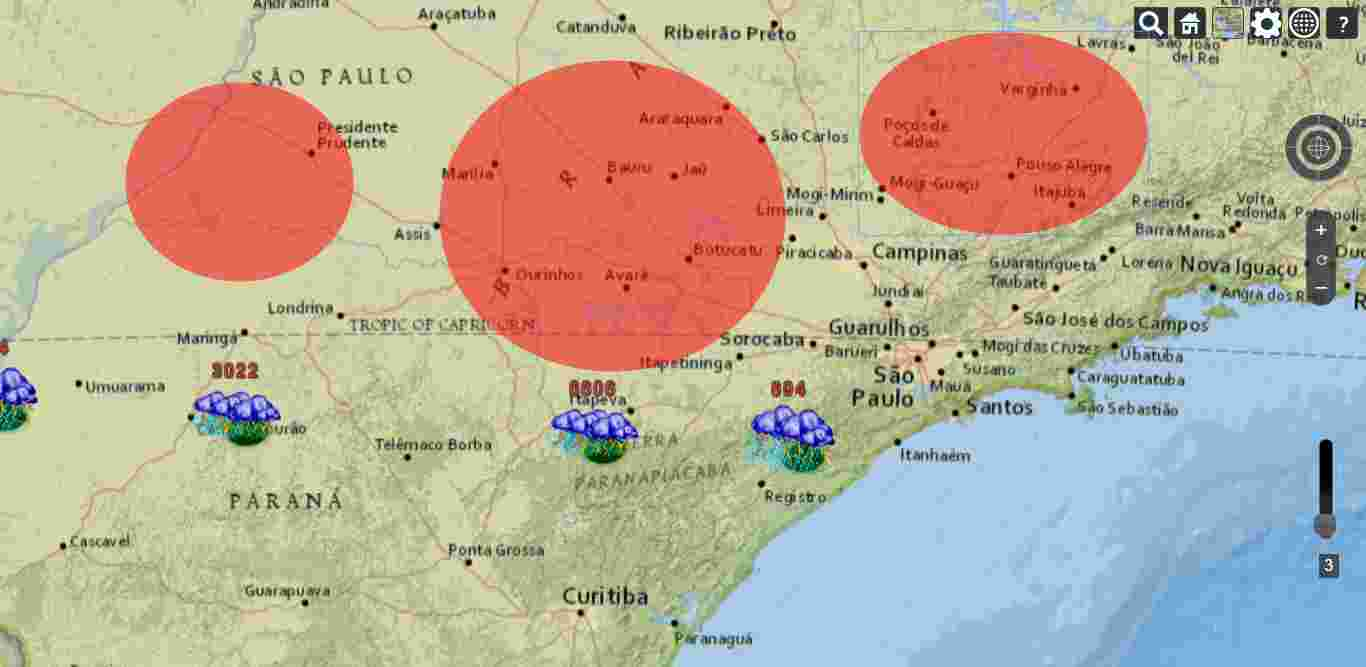
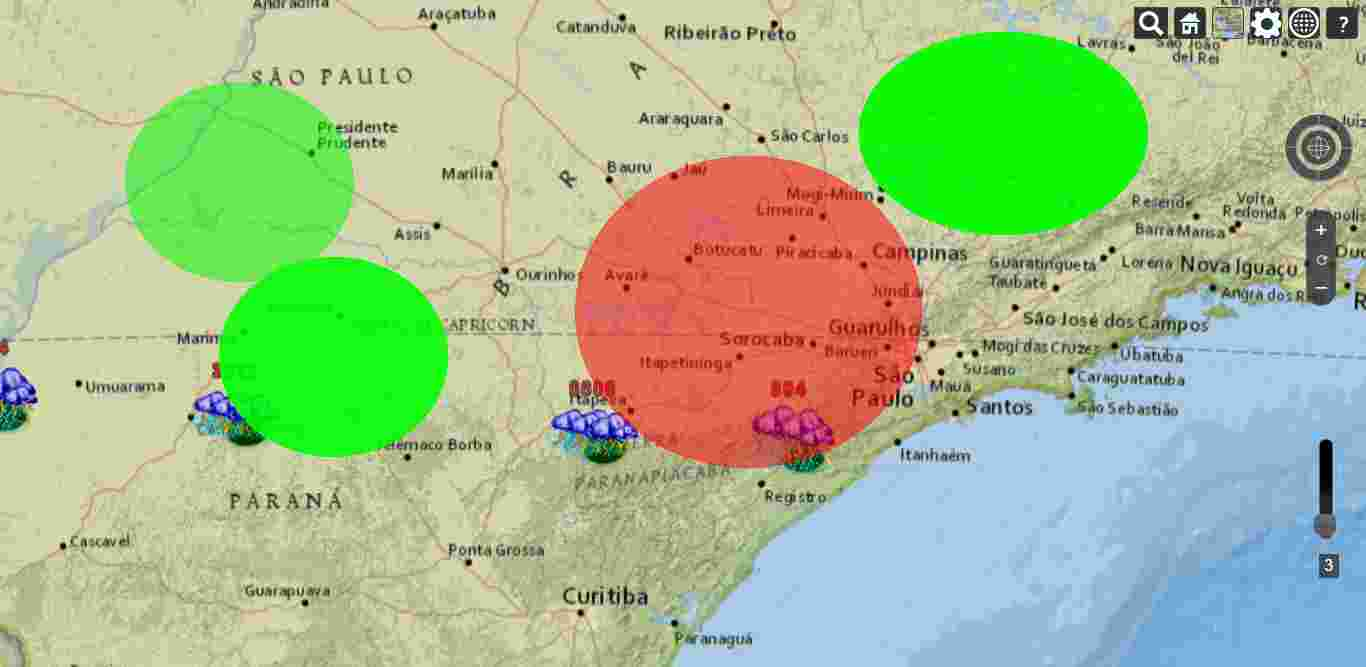
sincronização da ordem dos objetos

Changed region(s): [[0.0615, 0.03, 0.8609, 0.7196], [0.8302, 0.3298, 0.8609, 0.3598]]

diff --git a/ProjetoColaborativo/Controllers/VimapsController.cs b/ProjetoColaborativo/Controllers/VimapsController.cs
@@ -232,9 +232,9 @@ namespace ProjetoColaborativo.Controllers
             List<ElementoMultimidia> elementosdosoutros =
                 obj.ElementosMultimidia.Where(x => x.Usuario != usuario).ToList();
 
+            List<string> els = new List<string>();
             if (elementosdosoutros.Count > 0)
             {
-                List<string> els = new List<string>();
                 foreach (var el in elementosdosoutros)
                 {
                     Color cor = System.Drawing.ColorTranslator.FromHtml("#" + el.Usuario.Cor);
@@ -244,12 +244,14 @@ namespace ProjetoColaborativo.Controllers
                     {
                         json = Regex.Replace(json, "(?<=fill\":\").*?(?=\")", "rgba(255, 255, 255, 1)");
                         json = Regex.Replace(json, "(?<=stroke\":\").*?(?=\")", "rgba(0, 0, 0, 1)");
+                        json = Regex.Replace(json, "(?<=iddono\":\").*?(?=\")", el.Usuario.Id);
                         json = Regex.Replace(json, "(?<=textBackgroundColor\":\").*?(?=\")",
                             string.Format("rgba({0}, {1}, {2}, 0.5)", cor.R, cor.G, cor.B));
                         //json = json.Replace("\\n", "\n");
                     }
                     else // GEOMETRIA
                     {
+                        json = Regex.Replace(json, "(?<=iddono\":\").*?(?=\")", el.Usuario.Id);
                         json = Regex.Replace(json, "(?<=fill\":\").*?(?=\")",
                             string.Format("rgba({0}, {1}, {2}, 0.5)", cor.R, cor.G, cor.B));
                         json = Regex.Replace(json, "(?<=stroke\":\").*?(?=\")",
@@ -258,12 +260,24 @@ namespace ProjetoColaborativo.Controllers
 
                     els.Add(json);
                 }
-                return this.Content(string.Format("{{\"objects\": [ {0} ]}}", string.Join(",", els)), "application/json");
             }
 
-            return Json("", JsonRequestBehavior.AllowGet);
-        }
+            // orders
+            var objs = sessao.ObjetosDaSessao.OrderBy(x => x.Ordem).ToList();
 
+            if (objs.Count == 0)
+                return Json("", JsonRequestBehavior.AllowGet);
+
+            List<string> orders = new List<string>();
+            foreach (var o in objs)
+                orders.Add(string.Format("{{ \"id\":\"{0}\", \"order\":\"{1}\" }}", o.Handle, o.Ordem));
+
+            return this.Content(string.Format("{{\"multimediaelements\": [ {0} ], \"objects\": [ {1} ]}}",
+                string.Join(",", els),
+                string.Join(",", orders)),
+                "application/json");
+        }
+        
         [Authorize]
         public ActionResult MostrarSessao(long? id, long? objetoid)
         {
@@ -292,23 +306,26 @@ namespace ProjetoColaborativo.Controllers
                 foreach (var el in obj.ElementosMultimidia)
                 {
                     Color cor = System.Drawing.ColorTranslator.FromHtml("#" + el.Usuario.Cor);
-                    
+
                     string json = el.Json;
                     if (json.Contains("\"type\":\"i-text\"")) // TEXTO
                     {
                         json = Regex.Replace(json, "(?<=fill\":\").*?(?=\")", "rgba(255, 255, 255, 1)");
                         json = Regex.Replace(json, "(?<=stroke\":\").*?(?=\")", "rgba(0, 0, 0, 1)");
+                        json = Regex.Replace(json, "(?<=iddono\":\").*?(?=\")", el.Usuario.Id);
                         json = Regex.Replace(json, "(?<=textBackgroundColor\":\").*?(?=\")",
                             string.Format("rgba({0}, {1}, {2}, 0.5)", cor.R, cor.G, cor.B));
                         //json = json.Replace("\\n", "\n");
                     }
                     else // GEOMETRIA
                     {
+                        json = Regex.Replace(json, "(?<=iddono\":\").*?(?=\")", el.Usuario.Id);
                         json = Regex.Replace(json, "(?<=fill\":\").*?(?=\")",
                             string.Format("rgba({0}, {1}, {2}, 0.5)", cor.R, cor.G, cor.B));
                         json = Regex.Replace(json, "(?<=stroke\":\").*?(?=\")",
                             string.Format("rgba({0}, {1}, {2}, 0.5)", cor.R, cor.G, cor.B));
                     }
+
                     els.Add(json);
                 }
                 ViewBag.LerElementos = string.Format("{{'objects': [ {0} ]}}", string.Join(",",els));
